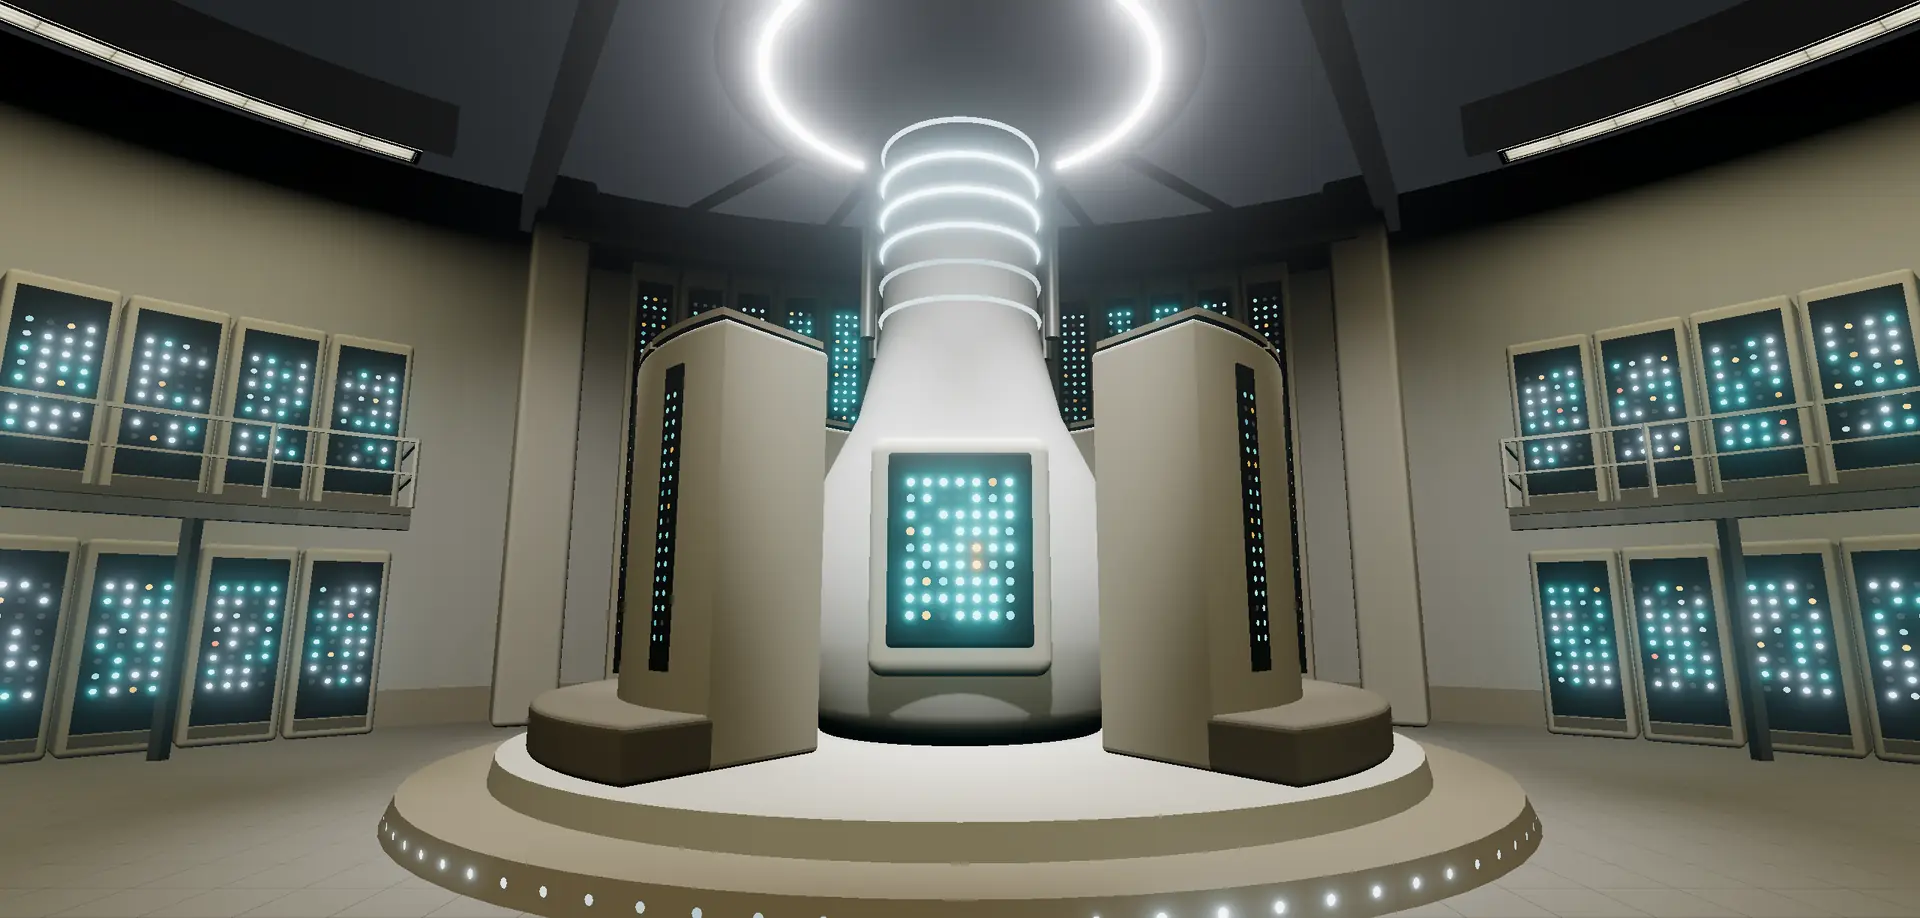
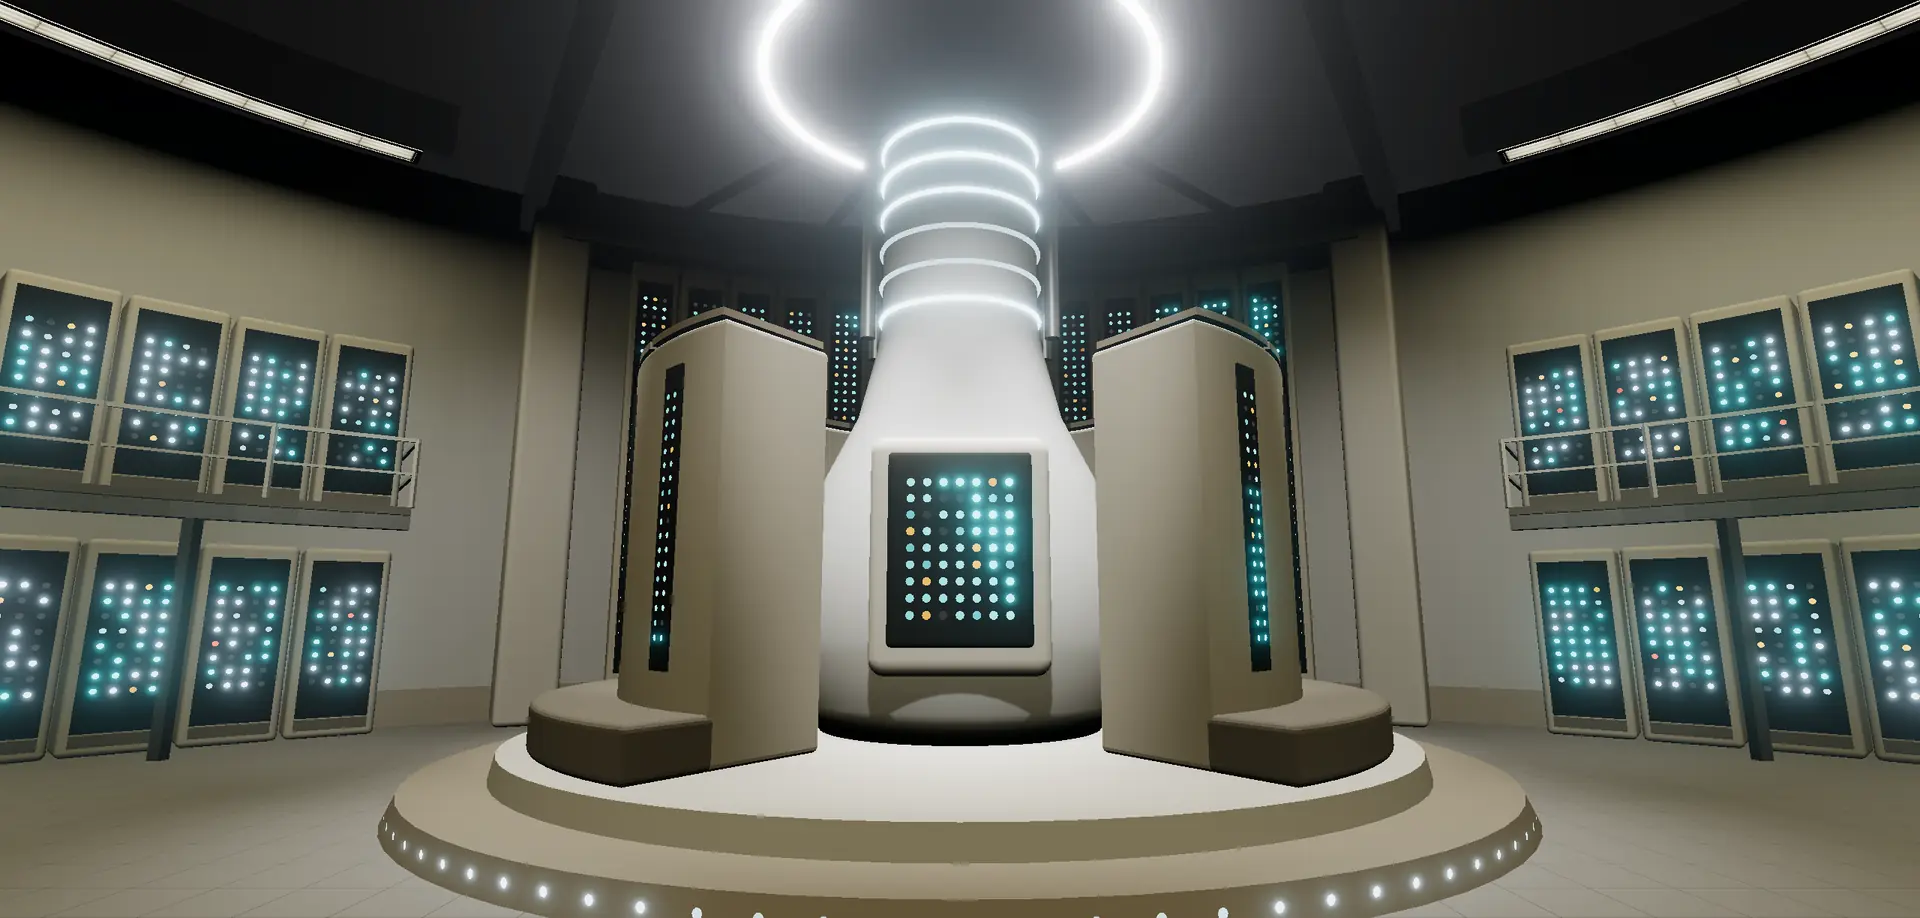
Server ceiling #232323, beams #1A1A1A; retaken welcome stills

diff --git a/src/scene/serverRoom.js b/src/scene/serverRoom.js
@@ -300,8 +300,8 @@ export function buildServerLights(m) {
   fixtures.push({ mat: m.serverBayStrip, max: fixtureMax, row: 3 });
   // The ceiling: no light reaches it (the area lights face down), so it was pure black. It's an anthracite
   // surface that comes up with the first fixture row (user: dark gray, not total black).
-  fixtures.push({ mat: m.serverCeiling, max: new THREE.Color(0x313437), row: 0 });
+  fixtures.push({ mat: m.serverCeiling, max: new THREE.Color(0x232323), row: 0 }); // #232323 (user)
   // Beams and fixture housings: a couple of shades darker than the ceiling (they were pure black too).
-  fixtures.push({ mat: m.serverBeam, max: new THREE.Color(0x232323), row: 0 }); // #232323 (user)
+  fixtures.push({ mat: m.serverBeam, max: new THREE.Color(0x1a1a1a), row: 0 }); // #1A1A1A (user)
   return { group, room, fixtures };
 }

diff --git a/CLAUDE.md b/CLAUDE.md
@@ -439,7 +439,7 @@ nearest-first (tube sounds at 100/60/40 % per row), back wash +0.3 s, fans fade 
 - **Server ceiling beams** (user: lights crossing under beams made no sense): a lengthwise beam over each fixture column
   (`FIX_X`), every fixture housing hung under its beam running the same way; cross beams only between fixture rows plus
   the hall/bay edge beam (`CROSS_Z` -8, -14.8, -21.6, zMin). Beams, housings and the bay's radial/ring beams use
-  `m.serverBeam` (MeshBasic **#232323** at full power (user-picked; was 0x222427), darker than the anthracite ceiling; black when
+  `m.serverBeam` (MeshBasic **#1A1A1A** at full power (user-picked), darker than the ceiling (**#232323**, user-picked); black when
   unpowered, comes up with row 0). The old `TRUSS_Z` (one over each row) is gone.
 - **Supercomputer face panel:** the beige surround now runs from z 1.0 (deep inside the bulbous base, so it grows out of
   it instead of floating off it at the top corners) to 2.38 (just past the bulge's widest point, r 2.2, which used to
@@ -456,7 +456,7 @@ nearest-first (tube sounds at 100/60/40 % per row), back wash +0.3 s, fans fade 
   wedge-shaped cheeks. The exterior sill and lintel beams are gone, the command room's under-sill filler is gone, and its
   floor slab now starts at the glass foot (z 0; it used to poke into the recess as a ledge). Catwalk landings and doors
   moved 0.35 m with the wall face. Command-room interior unchanged.
-- **Server ceiling** is anthracite (`m.serverCeiling`, MeshBasic 0x313437 at full power, black when unpowered, comes up
+- **Server ceiling** is dark grey (`m.serverCeiling`, MeshBasic **#232323** at full power (user-picked; first 0x313437), black when unpowered, comes up
   with fixture row 0 in the reveal): no light ever reached the old ceiling, so it rendered pure black.
 - **Server-room light frames** lighter grey (`m.fixtureFrame` 0xc4c3bf -> 0xdcdbd7; server room only, the command room's
   frames are beige and untouched).
